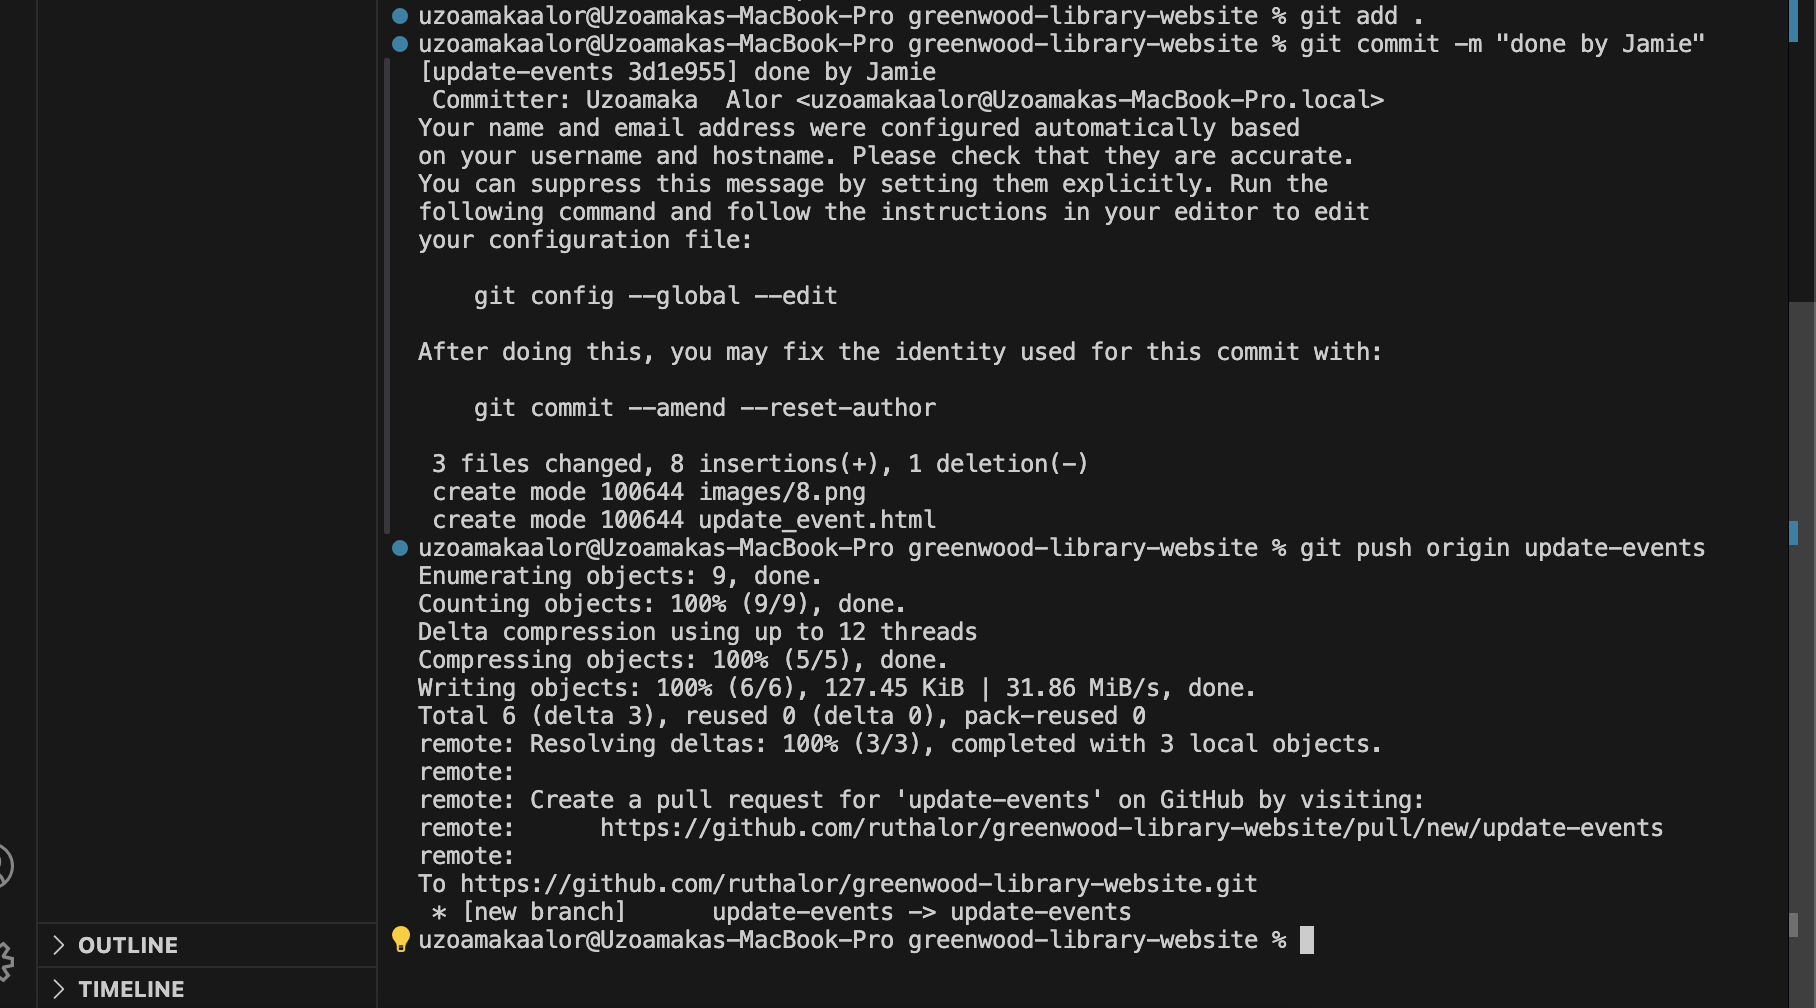
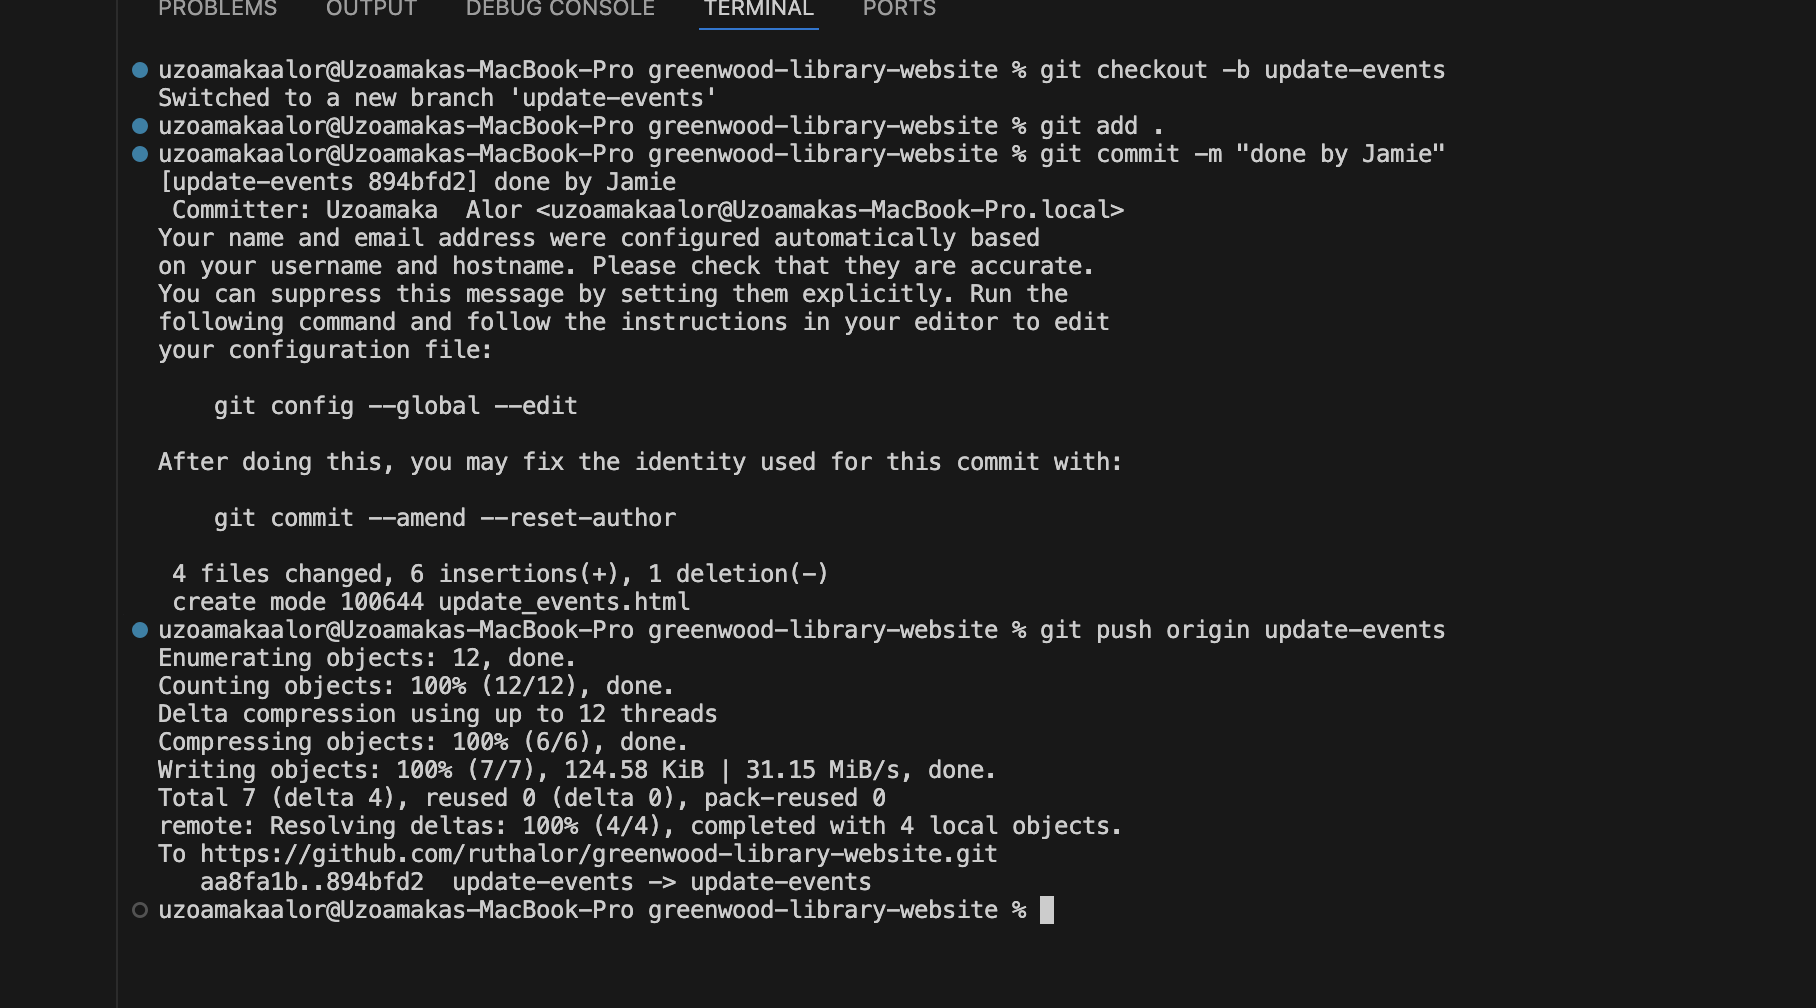
updated by Jamie

diff --git a/README.md b/README.md
@@ -23,3 +23,4 @@ Here we have the changes made on the **add-book-reviews** branch pulled into the
 Here we are creating a new branch for Jamie, branch name is **update-events**
 Also creating a new file, commit and stage these changes. 
 ![done by jamie](./images/8.png)
+![commited](./images/9.png)
